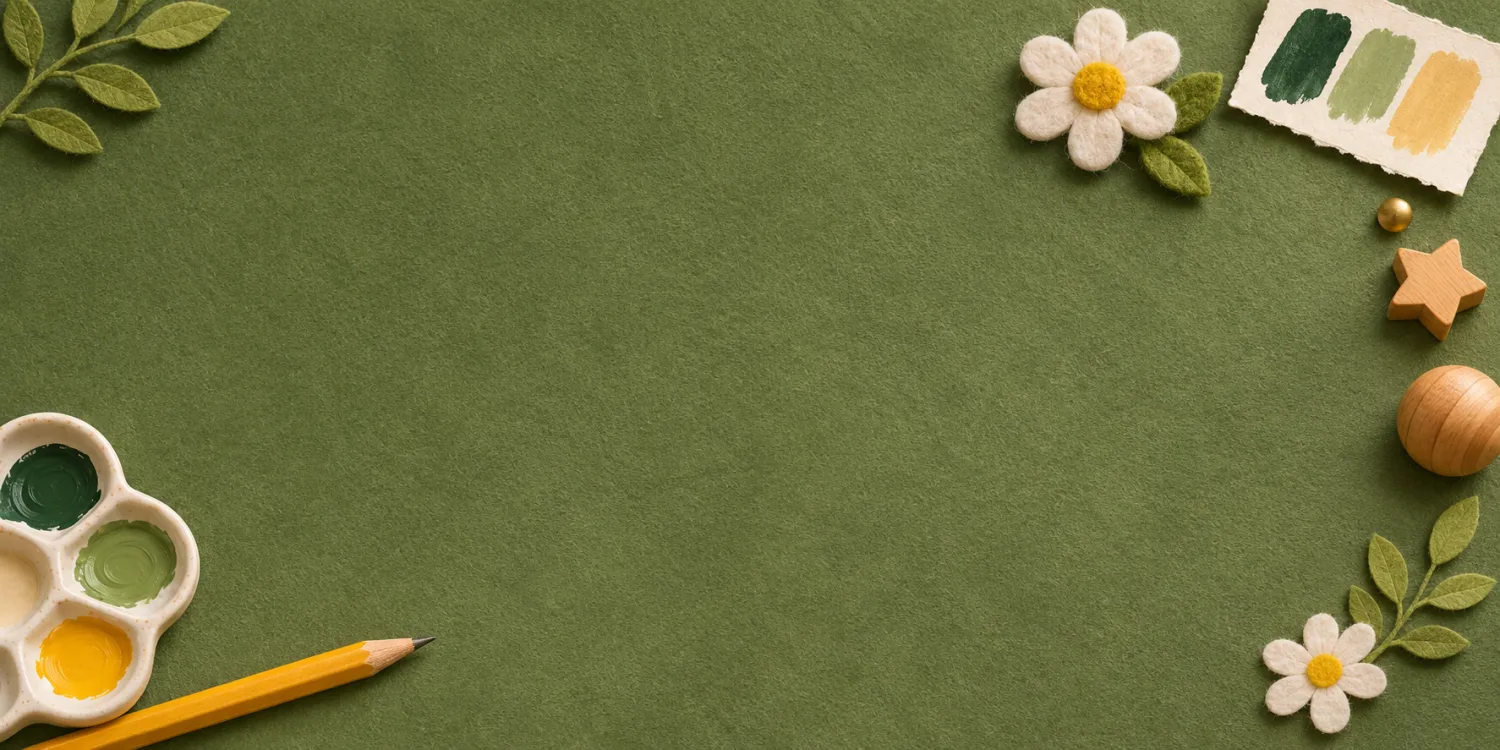
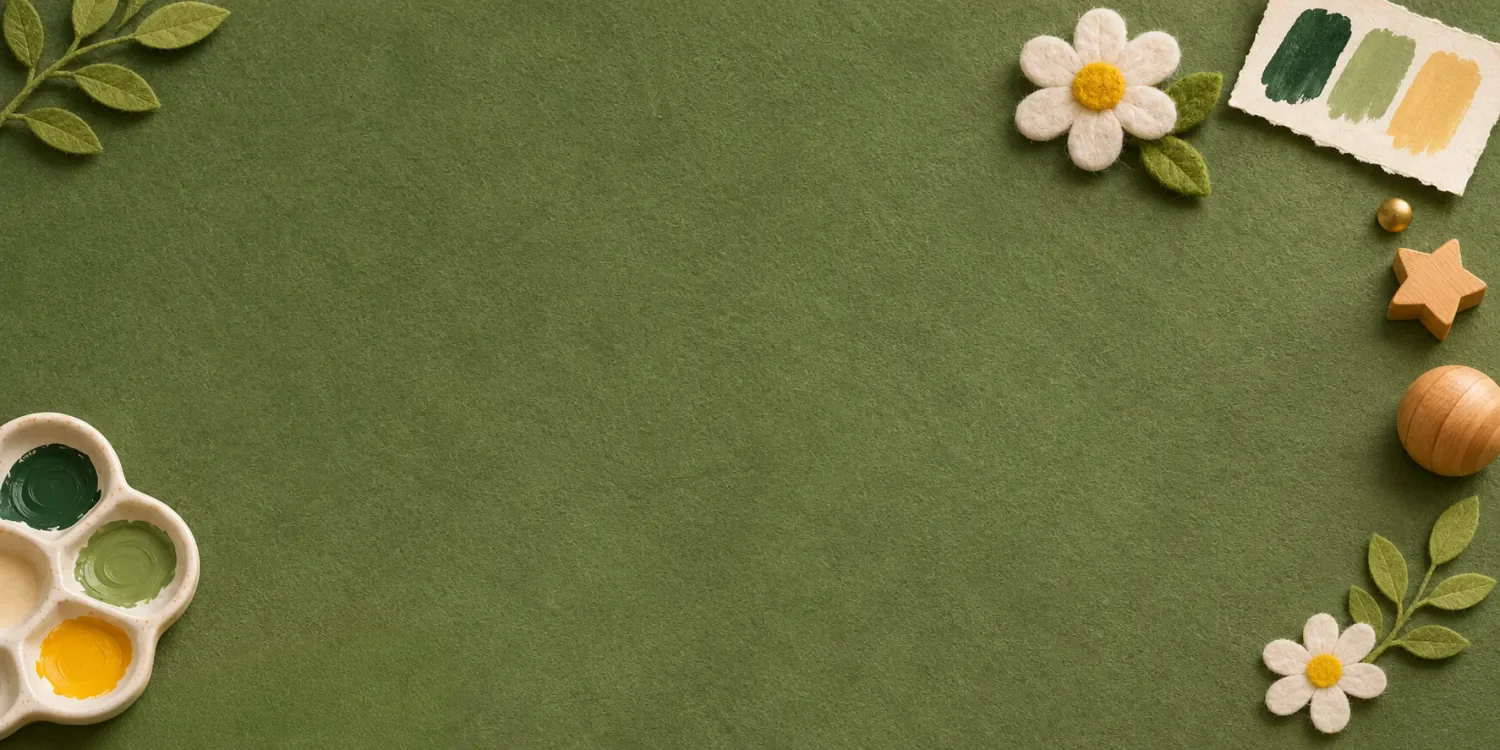
Publish website build 24c1ddc

Changed region(s): [[0.0, 0.828, 0.3067, 1.0]]

diff --git a/assets/index-BmAYSVhj.css b/assets/index-BmAYSVhj.css
@@ -1,0 +1,1 @@
+:root{--rr-cream:#f4eedc;--rr-ink:#1c3825;--rr-moss:#526645;--rr-sage:#c2d09c;--rr-sun:#edd47c;--rr-line:#879478;--rr-pause:#dce3c5;--paper:#f2edda;--ink:var(--rr-ink);--line:#b8baa2;--radius:14px;color:var(--ink);background:var(--paper);font:100%/1.5 Avenir Next,Avenir,system-ui,sans-serif}*{box-sizing:border-box}html{scroll-behavior:smooth;scroll-padding-top:1rem}body,h1,h2,h3,p{margin:0}h1,h2,h3{letter-spacing:-.035em;line-height:1.05}h1{font-weight:820}img{max-width:100%;display:block}a{color:inherit;text-decoration:none}button{font:inherit;cursor:pointer}button,a{-webkit-tap-highlight-color:transparent}a:focus-visible,button:focus-visible{outline-offset:4px;outline:3px solid}::selection{color:#261b2d;background:#ffdb88}[hidden]{display:none!important}.wrap{width:min(89%,1200px);margin-inline:auto}.skip-link{z-index:10;color:#172b1c;background:#fff;padding:10px 16px;position:fixed;inset:8px auto auto 8px;transform:translateY(-160%)}.skip-link:focus{transform:none}nav a:hover{text-underline-offset:.24em;text-decoration:underline}@media (prefers-reduced-motion:reduce){html{scroll-behavior:auto}}.workbench{--pine:#17351c;--sheet:#f7eace url(../assets/workbench/paper.webp) repeat;color:var(--pine);background:#58633d}.bench-nav{z-index:2;top:0;color:#fff8de;background:linear-gradient(90deg,#364826ed,#39492cce 80%,#0000);align-items:center;gap:clamp(1rem,3vw,3rem);padding:8px max(5%,50% - 600px);display:flex;position:absolute;inset-inline:0}.studio-name{white-space:nowrap;letter-spacing:-.045em;align-items:center;min-height:44px;font:850 clamp(1.08rem,2vw,1.65rem)/1 Avenir Next,system-ui,sans-serif;display:inline-flex}.bench-nav nav{border-left:1px solid #e5e6c5;align-items:center;gap:1rem;padding-left:clamp(.75rem,2vw,1.75rem);display:flex}.bench-nav nav a{text-shadow:0 1px 3px #29341e;align-items:center;min-height:44px;padding:0 .3rem;font-weight:700;display:inline-flex}.desk{background:#58633d url(../assets/workbench/desk.webp) 50%/cover;position:relative}.desk:after{content:"";aspect-ratio:2024/168;pointer-events:none;background:url(../assets/workbench/pencil.webp) 50%/contain no-repeat;width:clamp(82px,18vw,265px);position:absolute;bottom:clamp(30px,4.5vw,72px);left:clamp(15px,6vw,110px);transform:rotate(-13deg)}.desk-layout{isolation:isolate;align-items:center;max-width:1280px;margin:auto;padding:clamp(106px,8vw,138px) 7% clamp(105px,13vw,192px);display:flex;position:relative}.note{z-index:1;filter:drop-shadow(2px 8px 5px #26351c65);width:53%;padding:clamp(28px,4.1vw,61px);position:relative;transform:rotate(-5deg)}.note:before,.pinboard h2:before{content:"";z-index:-1;background:var(--sheet);clip-path:polygon(0 1%,12% .5%,18% 1%,35% 0,55% .6%,76% 0,98.8% .6%,100% 24%,99.6% 48%,100% 80%,99.3% 99%,80% 99.7%,67% 99%,48% 100%,28% 99.2%,10% 100%,.6% 99%,0 70%,.5% 32%);position:absolute;inset:0}.note:after{content:"";clip-path:polygon(2% 0,100% 2%,98% 28%,100% 50%,98% 98%,0 100%,2% 70%,0 36%);background:#a7a366e6;width:28%;height:clamp(15px,2vw,25px);position:absolute;top:-.55rem;left:38%;transform:rotate(-2deg)}.note h1,.pinboard h2,.bench-about h2{letter-spacing:-.065em;font-family:Avenir Next,system-ui,sans-serif;font-weight:950;line-height:.88}.note h1{width:max-content;max-width:100%;font-size:clamp(52px,6.6vw,100px);position:relative}.note h1:after{content:"";aspect-ratio:1;mix-blend-mode:multiply;background:url(../assets/workbench/daisy.webp) 50%/contain no-repeat;width:24%;position:absolute;bottom:-7%;right:-14%}.note p{max-width:25ch;margin:1.3em 0 .95em}.note p,.bench-about p{font-size:clamp(1.05rem,1.65vw,1.45rem);font-weight:590;line-height:1.36}.note strong{background:#f1c766;border-radius:35% 6% 26% 8%/29% 48% 25% 46%;padding:.22em .55em;font-size:clamp(1rem,1.65vw,1.4rem);font-weight:850;line-height:1.25;display:inline-block}.board-rabbit{z-index:1;pointer-events:none;filter:drop-shadow(0 3px 2px #26341955);width:clamp(145px,22vw,300px);height:auto;position:absolute;bottom:100%;left:50%;transform:translate(-50%,8%)}.pinboard{isolation:isolate;background:#ba854b url(../assets/workbench/board.webp) 50%/100% 100%;border-radius:12px;width:min(96%,1280px);margin:-10px auto 0;padding:clamp(28px,3.5vw,55px) 7% clamp(29px,3vw,46px);position:relative;box-shadow:0 5px 10px #26341c58}.pinboard h2{isolation:isolate;filter:drop-shadow(1px 4px 2px #66411d55);width:fit-content;padding:.34em .58em .42em;font-size:clamp(34px,4vw,62px);position:relative;transform:rotate(-3deg)}.pinboard h2:after,.print:after{content:"";aspect-ratio:1;background:radial-gradient(circle at 30% 22%,#fae7a8,#bd8a37 54%,#7a501e 86%);border-radius:50%;width:clamp(13px,1.35vw,21px);position:absolute;top:-.3em;left:9%;box-shadow:1px 3px 3px #51351999}.prints{grid-template-columns:repeat(2,minmax(0,1fr));gap:clamp(18px,3.3vw,53px);margin:clamp(24px,3vw,48px) 0;display:grid}.print{--pin-y:3px;transform-origin:50% var(--pin-y);background:var(--sheet);padding:clamp(7px,1vw,13px);transition:transform .22s ease-out;display:block;position:relative;transform:rotate(-2deg);box-shadow:1px 7px 7px #53351e75}.print:nth-child(2n){transform:rotate(2deg)}.print:after{left:50%;top:var(--pin-y);transform:translate(-50%,-50%)}.print img{aspect-ratio:2.048;object-fit:cover;width:100%;height:auto}.print:focus-visible,.print:hover{transform:rotate(0)}@media (prefers-reduced-motion:reduce){.print{transition:none}}.bench-store{text-align:center;color:#fff8e2;background:#1b4324;border-radius:2em;justify-content:center;align-items:center;gap:.5em;width:fit-content;max-width:100%;min-height:46px;margin:auto;padding:.55em 1.45em;font-size:clamp(1rem,1.7vw,1.4rem);font-weight:760;display:flex;box-shadow:0 4px 4px #59391d70}.bench-store:hover{background:#102f18}.bench-about{background:var(--sheet);align-items:center;gap:clamp(24px,4vw,62px);margin-top:-8px;padding:clamp(44px,5vw,76px) max(7%,50% - 555px);display:flex}.bench-about h2{font-size:clamp(36px,4.2vw,65px)}.bench-about p{border-left:2px solid #7e8861;max-width:78ch;padding-left:clamp(24px,3vw,46px)}@media (width<=700px){.bench-nav{gap:12px;padding:10px 5%}.bench-nav nav{gap:.5rem}.desk-layout{padding:92px 7% 100px;display:block}.note{width:min(93%,420px);padding:30px 24px 27px}.note h1{font-size:clamp(48px,11.8vw,74px)}.note p{margin:1em 0 .8em}.pinboard{background-size:auto 100%;padding:24px 7% 31px;box-shadow:inset 0 0 0 4px #bd874c,0 5px 10px #26341c58}.prints{grid-template-columns:1fr;gap:24px;margin:25px 0}.bench-about{padding:43px 7% 34px;display:block}.bench-about p{border:0;margin-top:17px;padding:0}}.bench-footer{text-align:center;color:#fff5dc;background:#203425;padding:clamp(4px,2.32vw - .75em,18px) 2%;font-size:clamp(.72rem,1.2vw,.95rem)}.bench-footer small{font-size:inherit;display:block}

diff --git a/index.html b/index.html
@@ -16,8 +16,8 @@
     <meta property="og:image" content="https://relaxedrabbit.com/assets/relaxed-rabbit-preview.png">
     <meta property="og:image:alt" content="A rabbit resting among daisies in the meadow">
     <meta name="twitter:card" content="summary_large_image">
-    <script type="module" crossorigin src="./assets/index-Cba57f6S.js"></script>
-    <link rel="stylesheet" crossorigin href="./assets/index-BOBMY1B7.css">
+    <script type="module" crossorigin src="./assets/index-Bb8NwlxH.js"></script>
+    <link rel="stylesheet" crossorigin href="./assets/index-BmAYSVhj.css">
   </head>
   <body class="workbench">
     <a class="skip-link" href="#content">Skip to content</a>
@@ -50,8 +50,6 @@
       </section>
     </main>
     <footer class="bench-footer">
-      <img src="./assets/workbench/velvet.webp" width="736" height="342" alt="">
-      <strong>Relaxed Rabbit</strong>
       <small>© <span id="year">2026</span> Relaxed Rabbit</small>
     </footer>
   </body>
